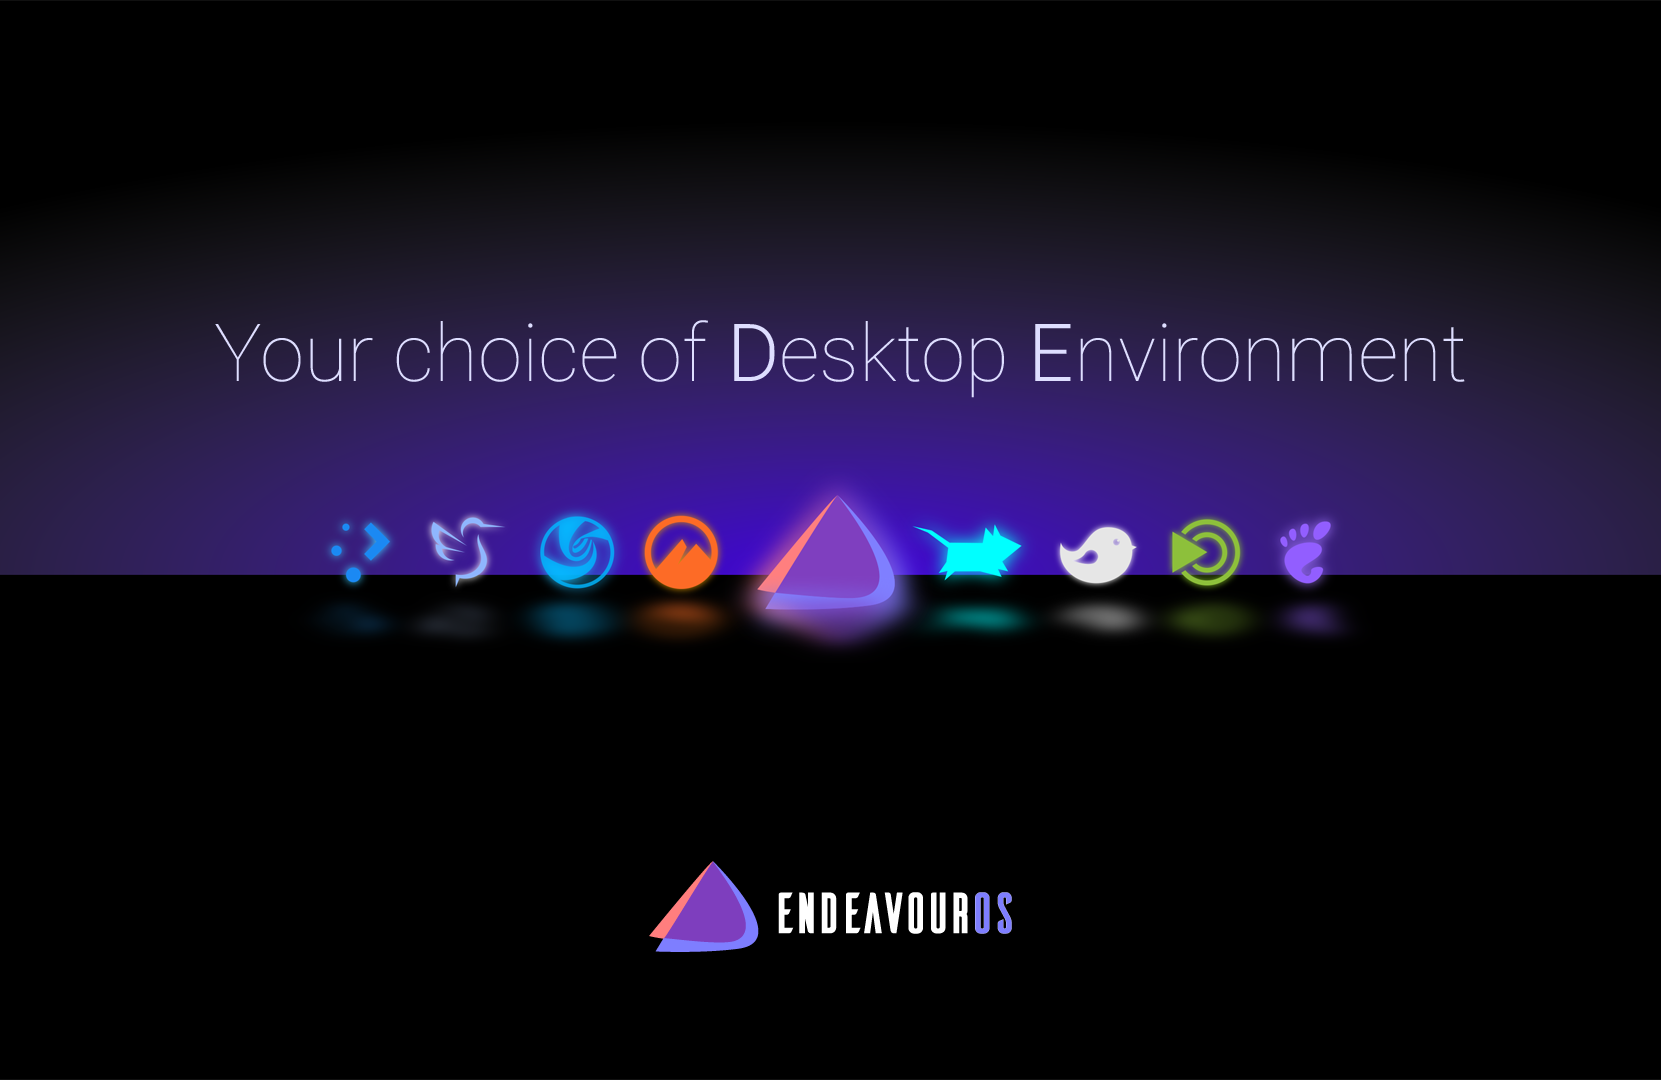
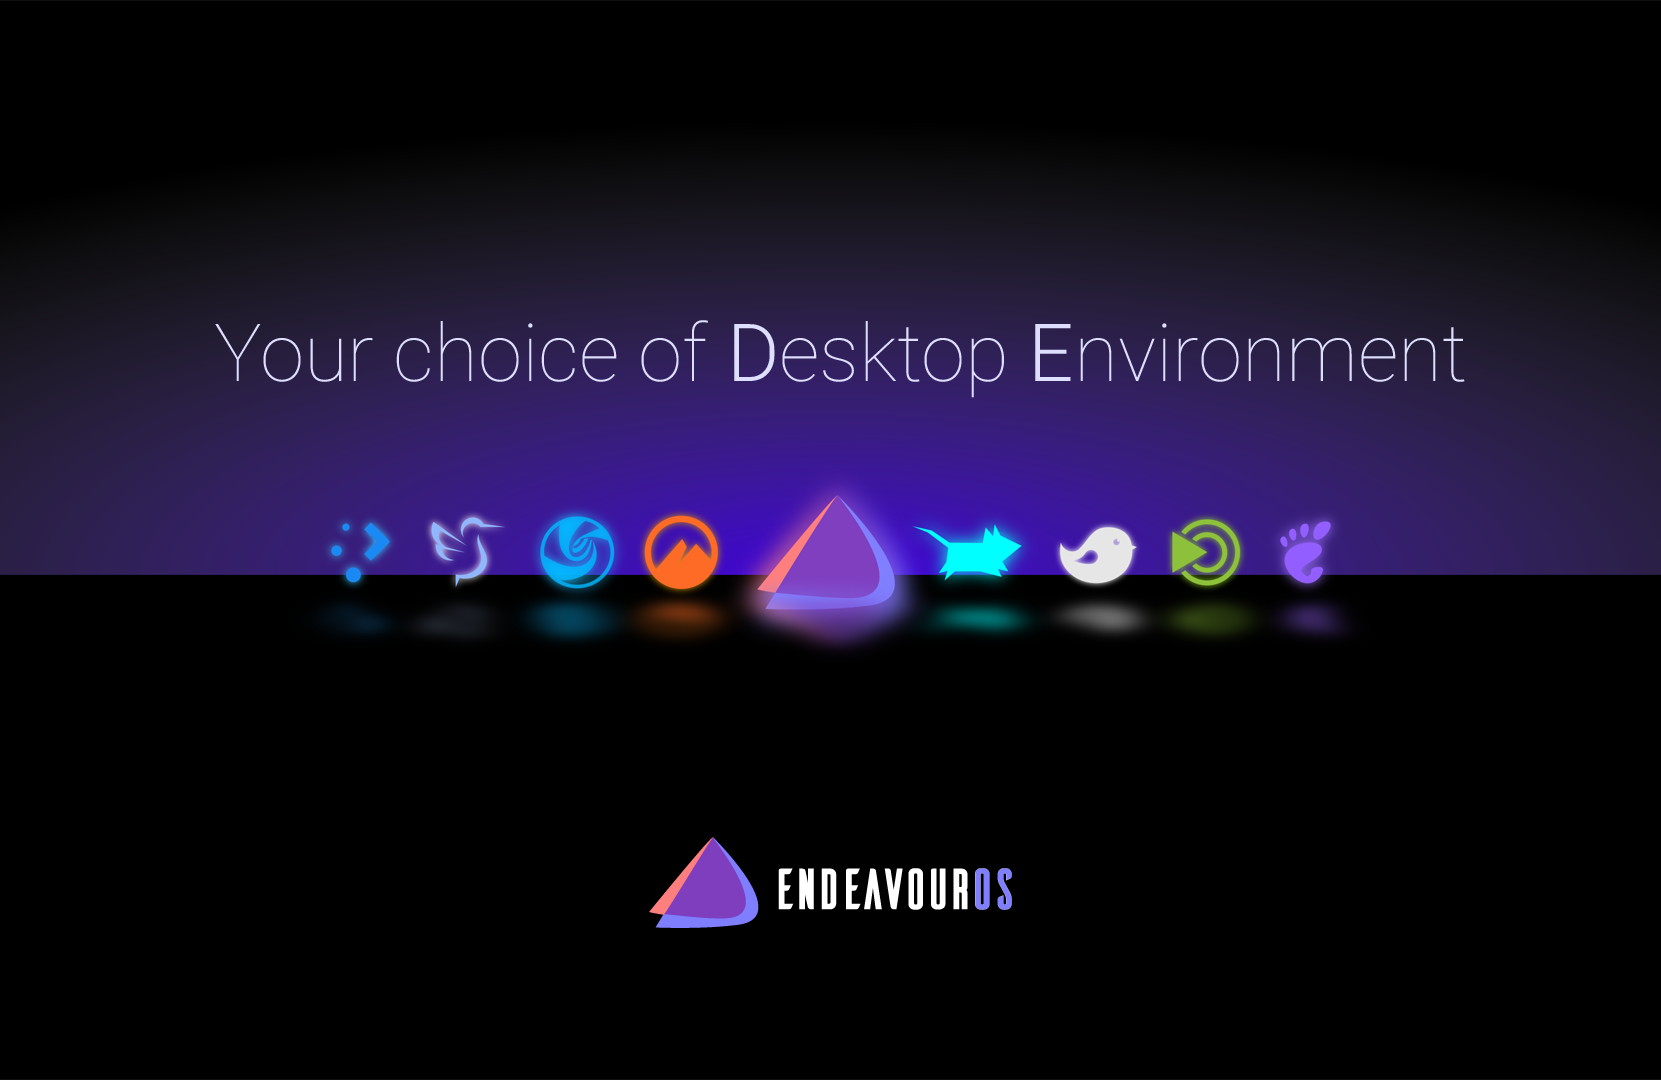
Add files via upload
Update of Slide pictures and refine time slideshow

Changed region(s): [[0.3685, 0.7639, 0.6141, 0.8861]]

diff --git a/branding/endeavouros/show.qml b/branding/endeavouros/show.qml
@@ -31,7 +31,7 @@ Presentation
 
     Timer {
         id: advanceTimer
-        interval: 35000
+        interval: 30000
         running: true
         repeat: true
         onTriggered: nextSlide()
